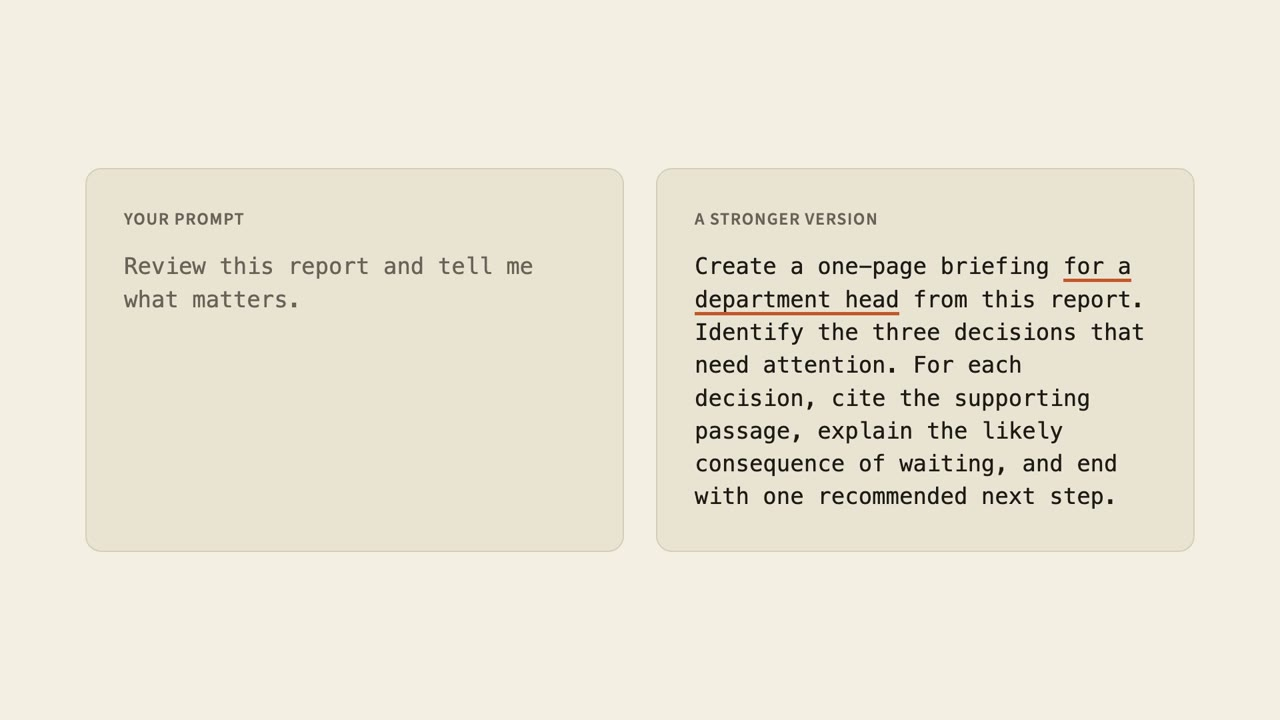
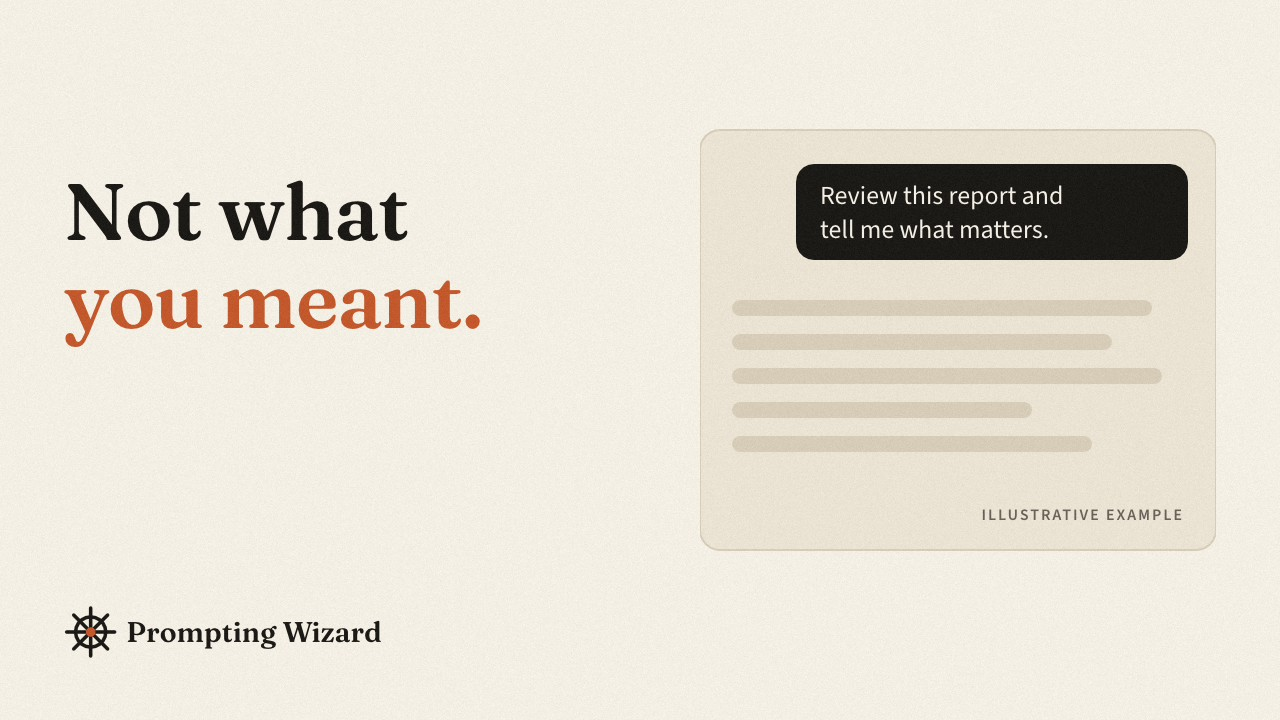
Show the new Prompting Wizard video and link the YouTube series
The hero video is the new explainer; its poster is the video's thumbnail with the headline sized to clear the play button. A line under the video links the episode series and the lesson videos.

Changed region(s): [[0.5312, 0.2139, 0.9375, 0.7333], [0.0312, 0.2444, 0.4375, 0.4889], [0.0312, 0.8556, 0.3125, 0.9167]]

diff --git a/docs/index.html b/docs/index.html
@@ -14,7 +14,7 @@
 <meta name="twitter:card" content="summary_large_image">
 <!-- ?v= is a hash of each file, so a changed stylesheet is never served from cache. Run python3 tools/check_site.py --fix after editing one. -->
 <link rel="stylesheet" href="tokens.css?v=c545f597">
-<link rel="stylesheet" href="style.css?v=73ae336a">
+<link rel="stylesheet" href="style.css?v=de39dc39">
 </head>
 <body>
 <header class="wrap">
@@ -28,9 +28,10 @@
 </div>
 </div>
 <!-- Nothing loads from YouTube until the reader presses play. -->
-<button class="video" type="button" data-video="77WkmnVSQbU" aria-label="Play the one-minute Prompting Wizard video (loads from YouTube)">
+<button class="video" type="button" data-video="_a40fI-F5HM" aria-label="Play the Prompting Wizard video (loads from YouTube)">
 <img src="assets/video-poster-landscape.jpg" alt="" width="1280" height="720"><span class="play" aria-hidden="true"></span>
 </button>
+<p class="more-video">More on YouTube: <a href="https://www.youtube.com/playlist?list=PLHG7b8_3xqp0">the episode series</a> · <a href="https://www.youtube.com/playlist?list=PLAfFRd4Idz1U">a short video for each lesson</a></p>
 </header>
 <main>
 <section><div class="wrap">

diff --git a/docs/style.css b/docs/style.css
@@ -22,6 +22,7 @@ header{padding:var(--space-5) 0 var(--space-8)}
 .logo-dark{display:none}
 .hero{margin-top:var(--space-8)}
 .video{display:block;position:relative;width:100%;max-width:960px;margin-top:var(--space-7);aspect-ratio:16/9;border:1px solid var(--rule);border-radius:var(--radius-surface);overflow:hidden;padding:0;background:var(--surface);cursor:pointer}
+.more-video{margin-top:var(--space-4);color:var(--muted);font-size:var(--text-base)}
 .video img{width:100%;height:100%;object-fit:cover;display:block}
 .play{position:absolute;inset:0;margin:auto;width:72px;height:72px;border-radius:50%;background:var(--btn)}
 .play::after{content:"";position:absolute;left:29px;top:22px;border-style:solid;border-width:14px 0 14px 22px;border-color:transparent transparent transparent var(--on-btn)}
